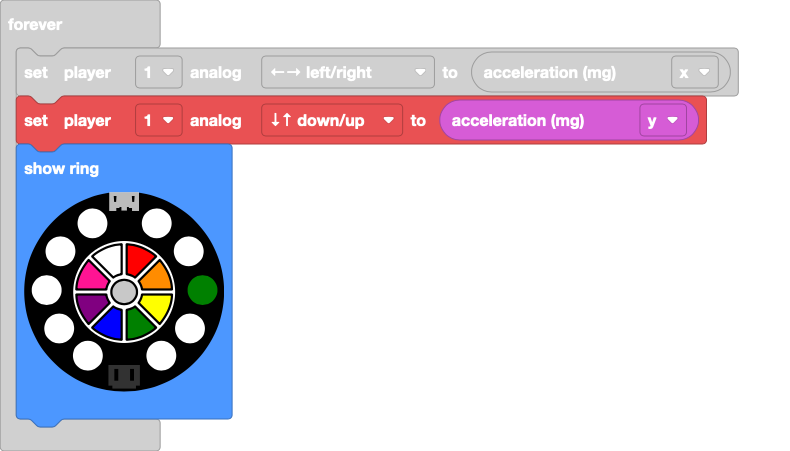
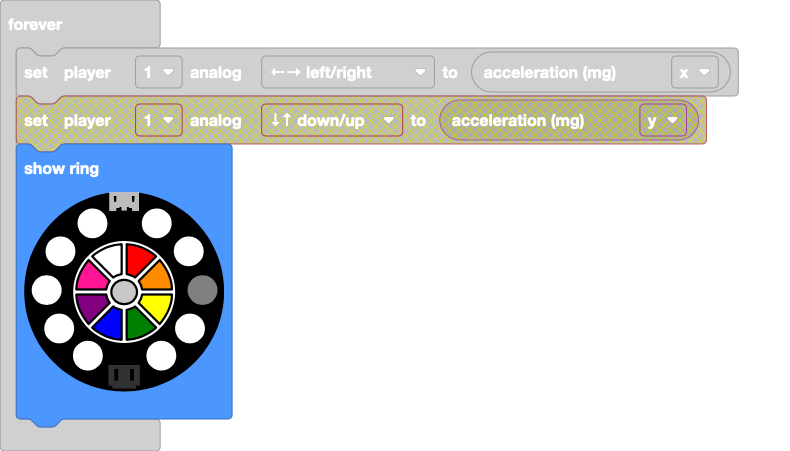
Update main.blocks, main.ts

Changed region(s): [[0.0, 0.1863, 0.9114, 0.3415], [0.2127, 0.5898, 0.2734, 0.6829]]

diff --git a/main.ts b/main.ts
@@ -4,8 +4,7 @@ input.buttonA.onEvent(ButtonEvent.Click, function () {
 })
 forever(function () {
     makerController.player1.setAnalog(ArcadeAnalogButton.LeftRight, input.acceleration(Dimension.X))
-    makerController.player1.setAnalog(ArcadeAnalogButton.DownUp, input.acceleration(Dimension.Y))
     light.showRing(
-    `white white white white white white white green white white`
+    `white white white white white white white black white white`
     )
 })
